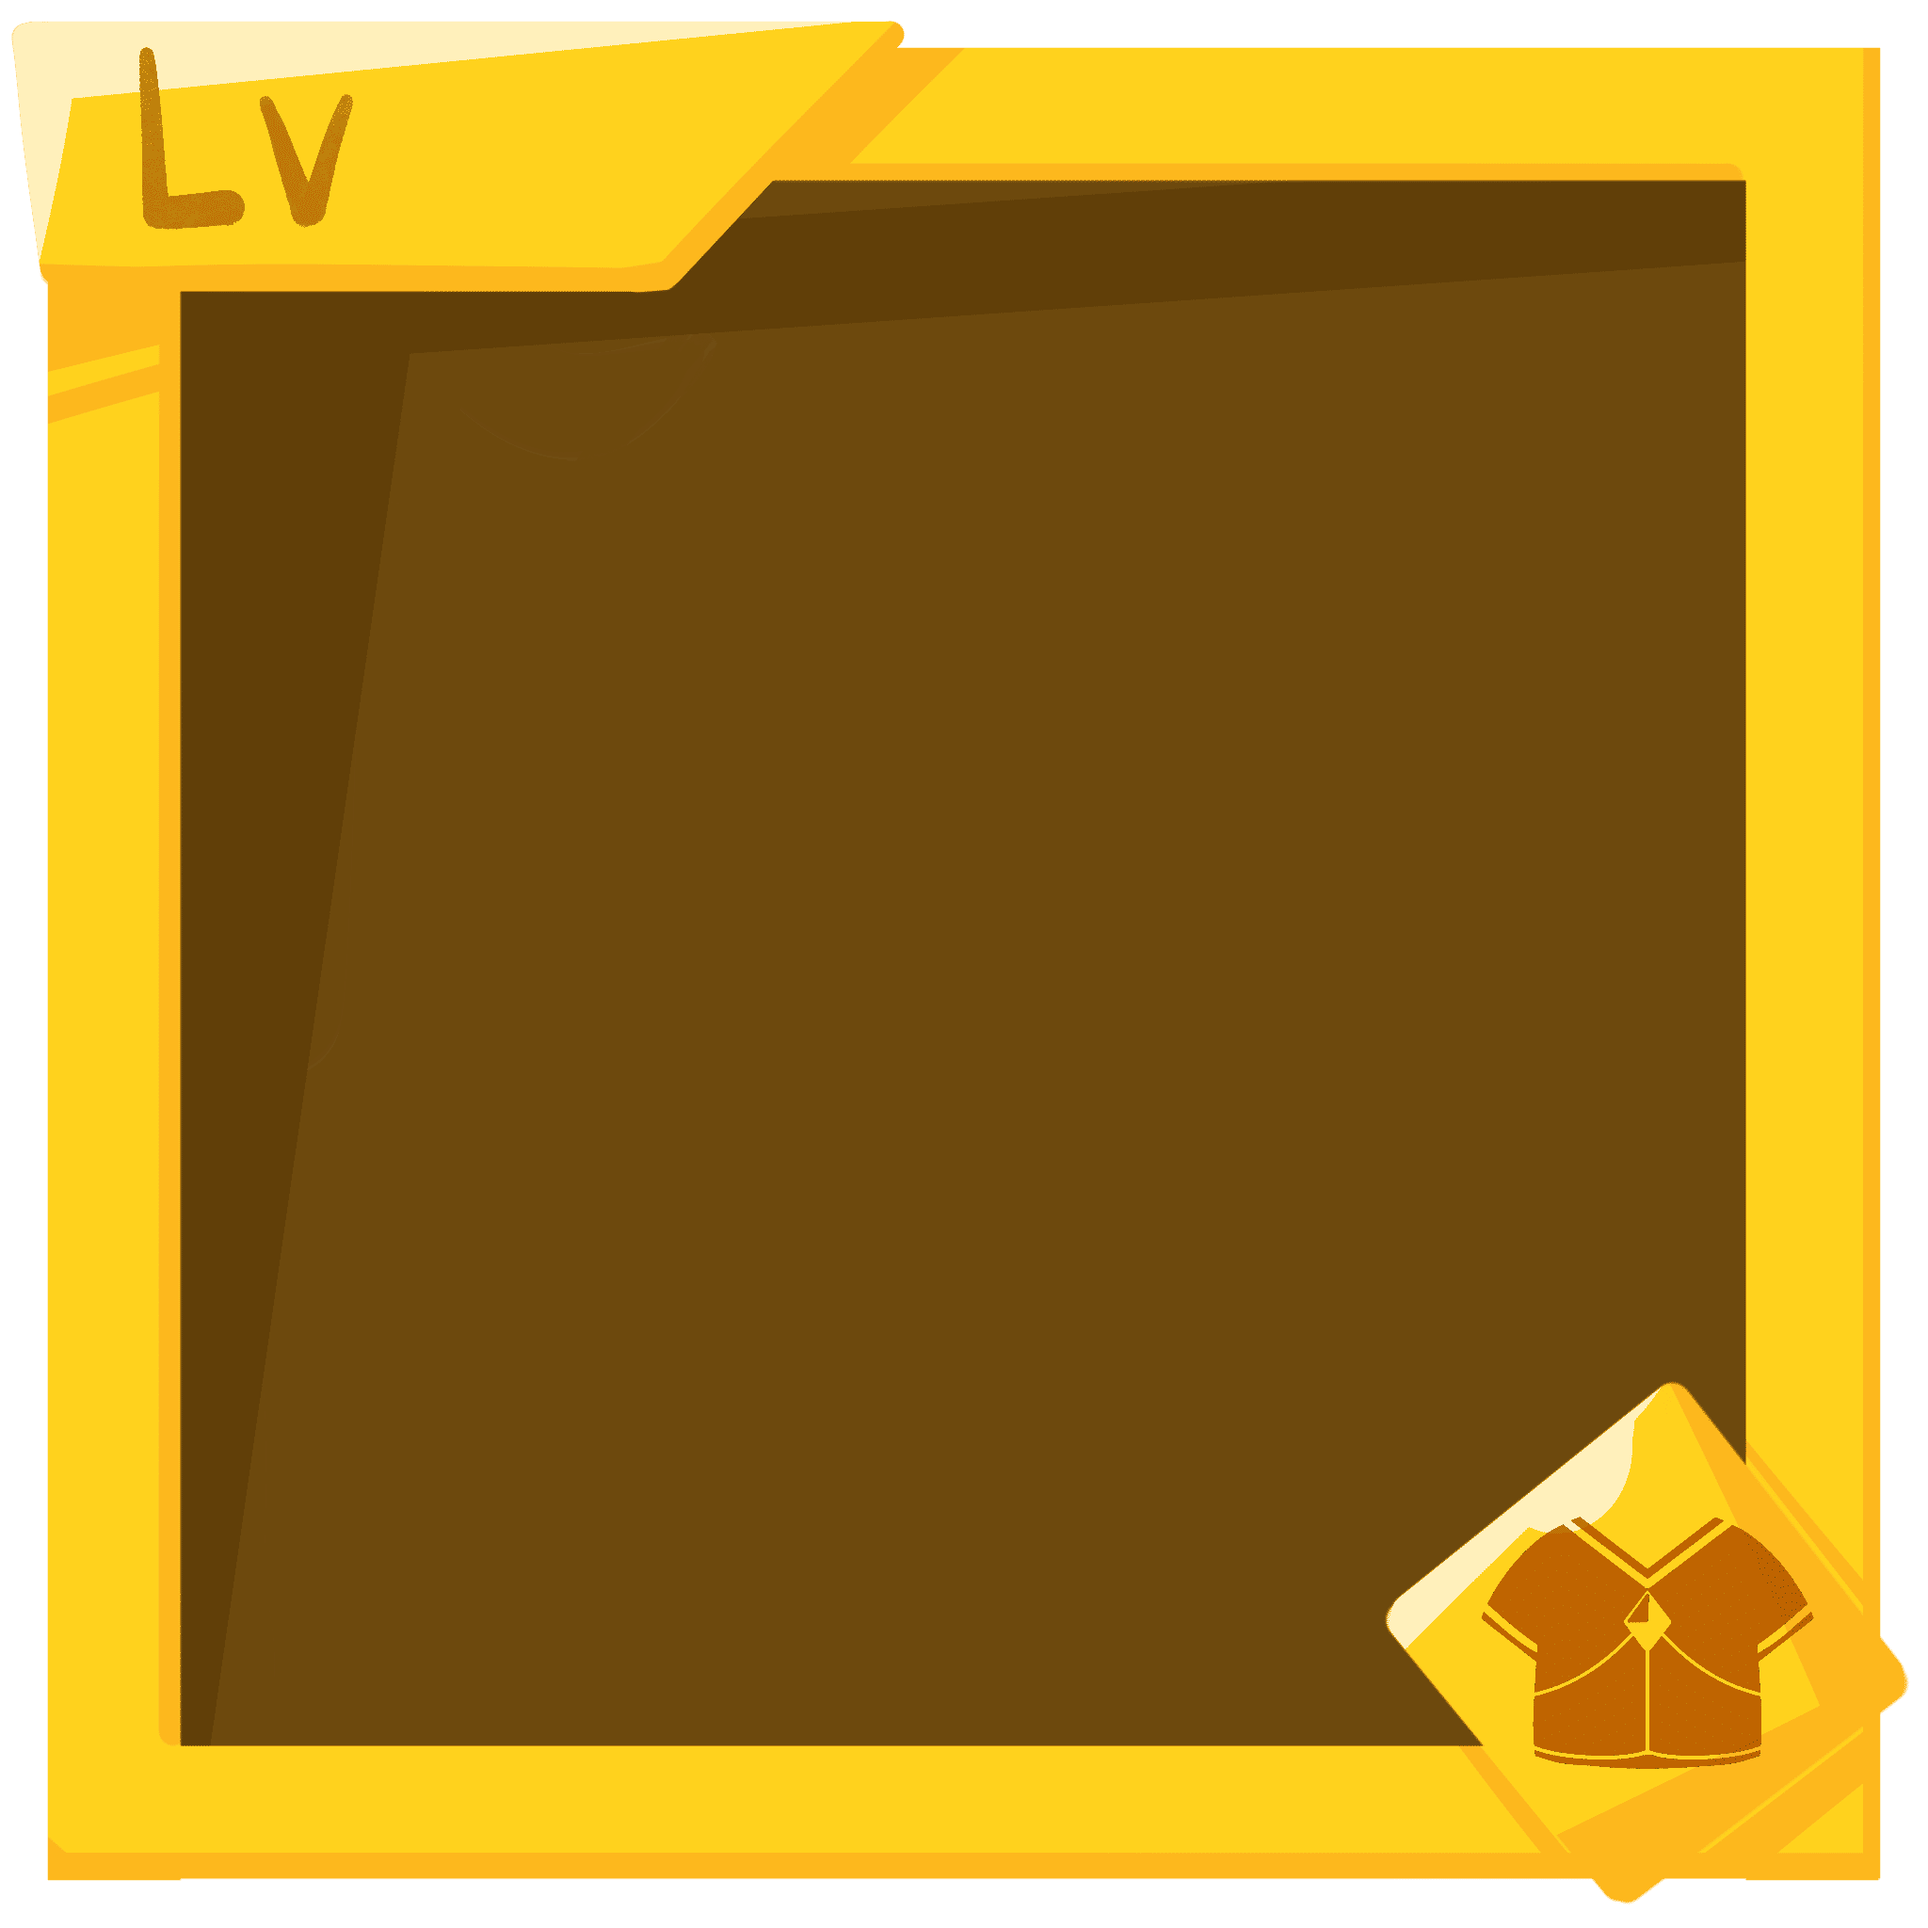
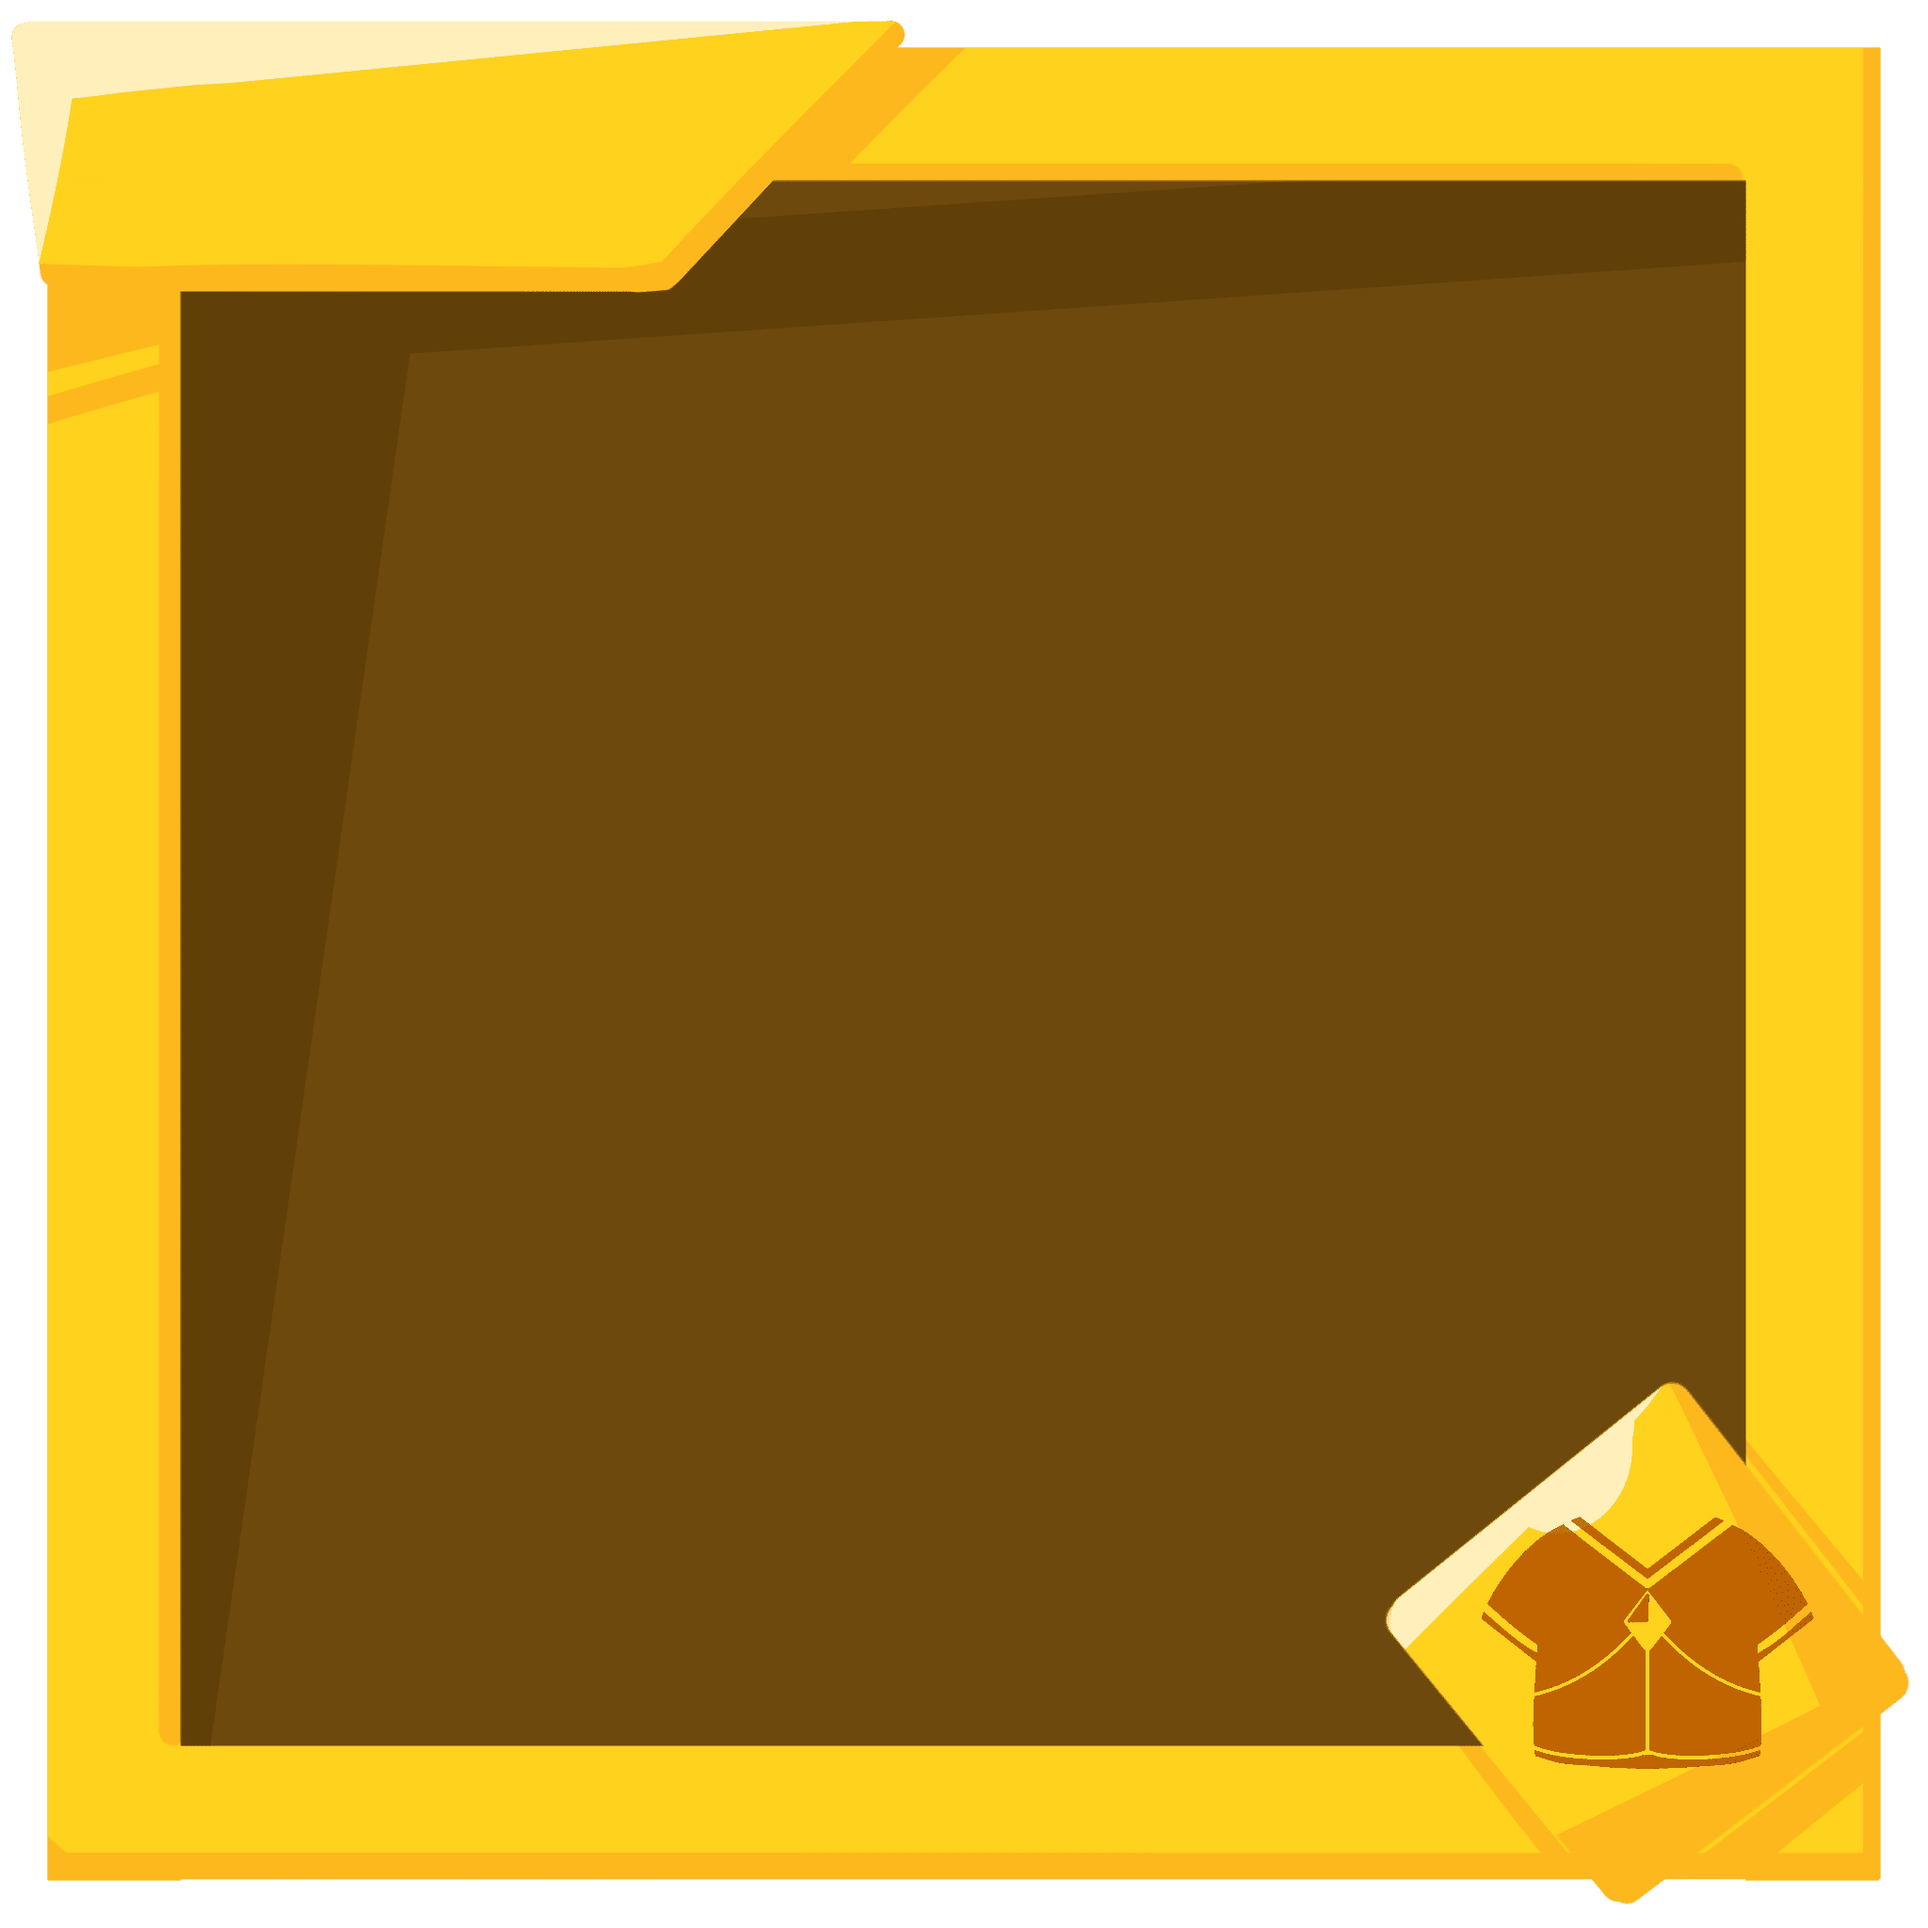
feat: new equipment frame, wear add frame

Changed region(s): [[0.0625, 0.0312, 0.1875, 0.125]]

diff --git a/Assets/Scripts/MainMenu/EquipmentBag.cs b/Assets/Scripts/MainMenu/EquipmentBag.cs
@@ -381,19 +381,27 @@ public class EquipmentBag : MonoBehaviour
 
 	private void GetEquipmentSpriteData(List<string> equippedItems, int slotIndex, GameObject obj)
 	{
-		obj.GetComponent<Image>().sprite = null;
-		obj.GetComponent<Button>().onClick.RemoveAllListeners();
-		obj.GetComponent<Button>().onClick.AddListener(() => GetComponent<MainMenuButtonController>().SoundClick());
+		Image frameImage = obj.GetComponent<Image>();
+		Image image = obj.transform.GetChild(0).GetComponent<Image>();
+		Button btn = obj.GetComponent<Button>();
 
-		
+		frameImage.sprite = null;
+		btn.onClick.RemoveAllListeners();
+		btn.onClick.AddListener(() => GetComponent<MainMenuButtonController>().SoundClick());
+		image.sprite = null;
+		image.color = Color.clear;
+
 		obj.GetComponent<Image>().sprite = Resources.Load<Sprite>("Arts/EquipmentImgaes/" + slotIndex.ToString());
+
 		if (slotIndex >= 0 && slotIndex < equippedItems.Count && !string.IsNullOrEmpty(equippedItems[slotIndex]))
 		{
 			var equipment = PlayerEquipmentManager.Instance.GetEquipmentByID(equippedItems[slotIndex]);
 			if (equipment != null)
 			{
-				obj.GetComponent<Image>().sprite = Resources.Load<Sprite>("Arts/EquipmentImgaes/" + equipment.name);
-				obj.GetComponent<Button>().onClick.AddListener(() => OnClickOpenEquipmentPanel(equipment.id));
+				frameImage.sprite = Resources.Load<Sprite>($"Arts/EquipmentImgaes/{equipment.rarity}_{equipment.equipmentType}");
+				image.color = Color.white;
+				image.sprite = Resources.Load<Sprite>("Arts/EquipmentImgaes/" + equipment.name);
+				btn.onClick.AddListener(() => OnClickOpenEquipmentPanel(equipment.id));
 				return;
 			}
 		}
